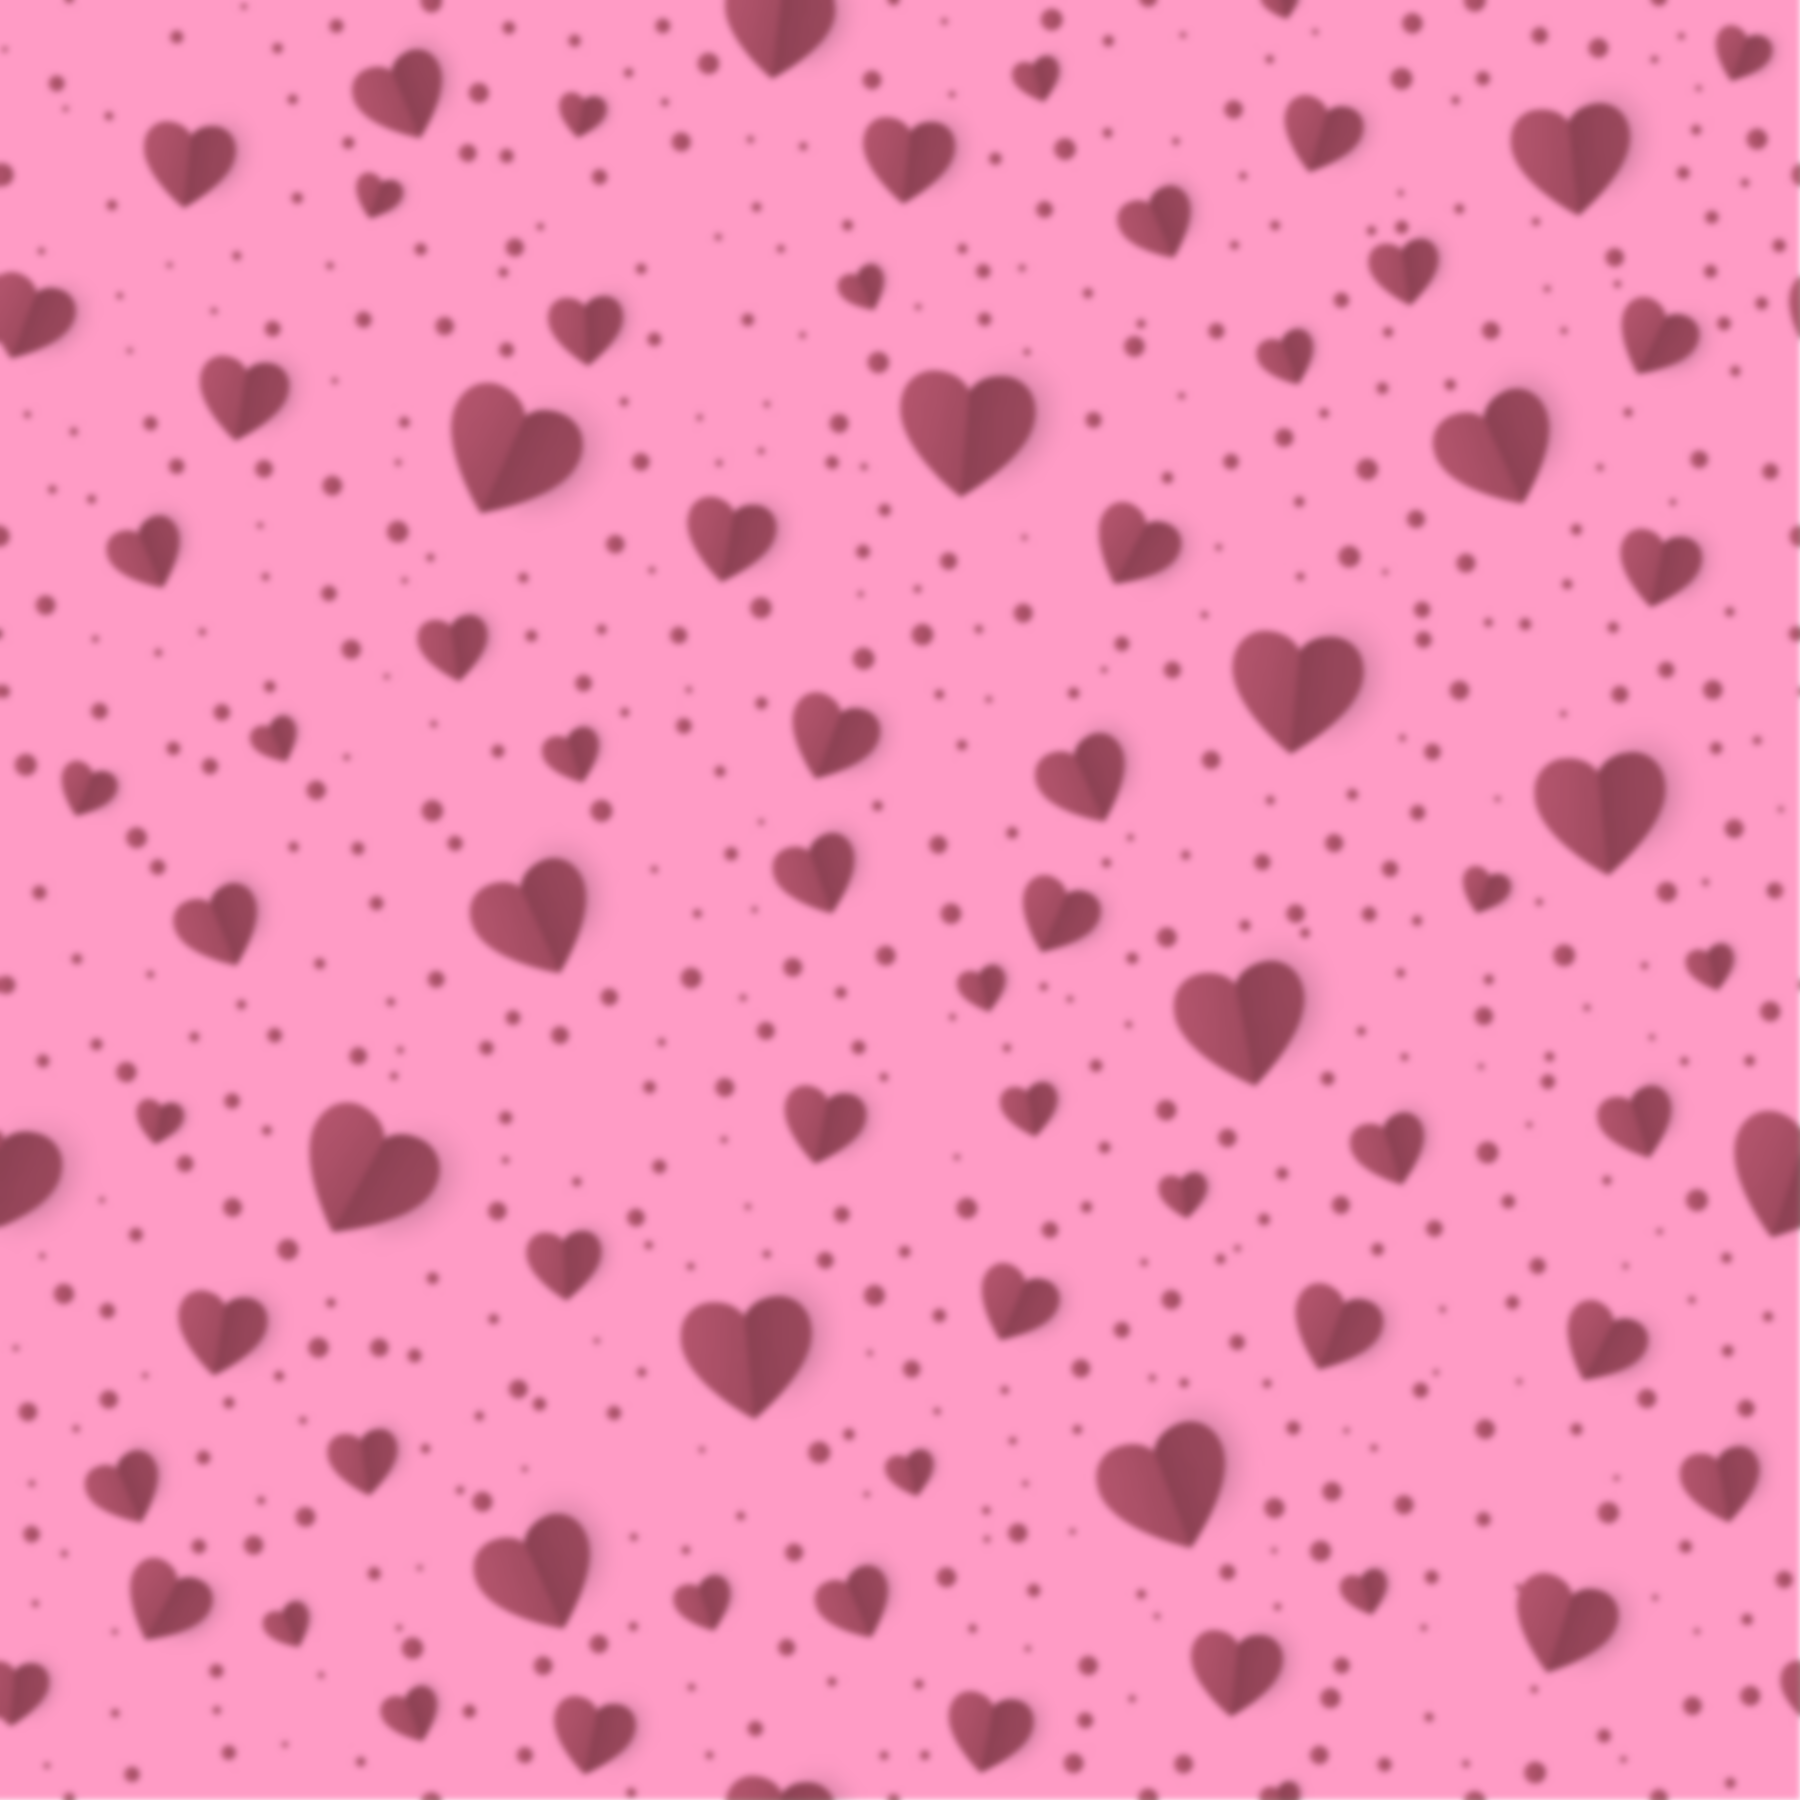
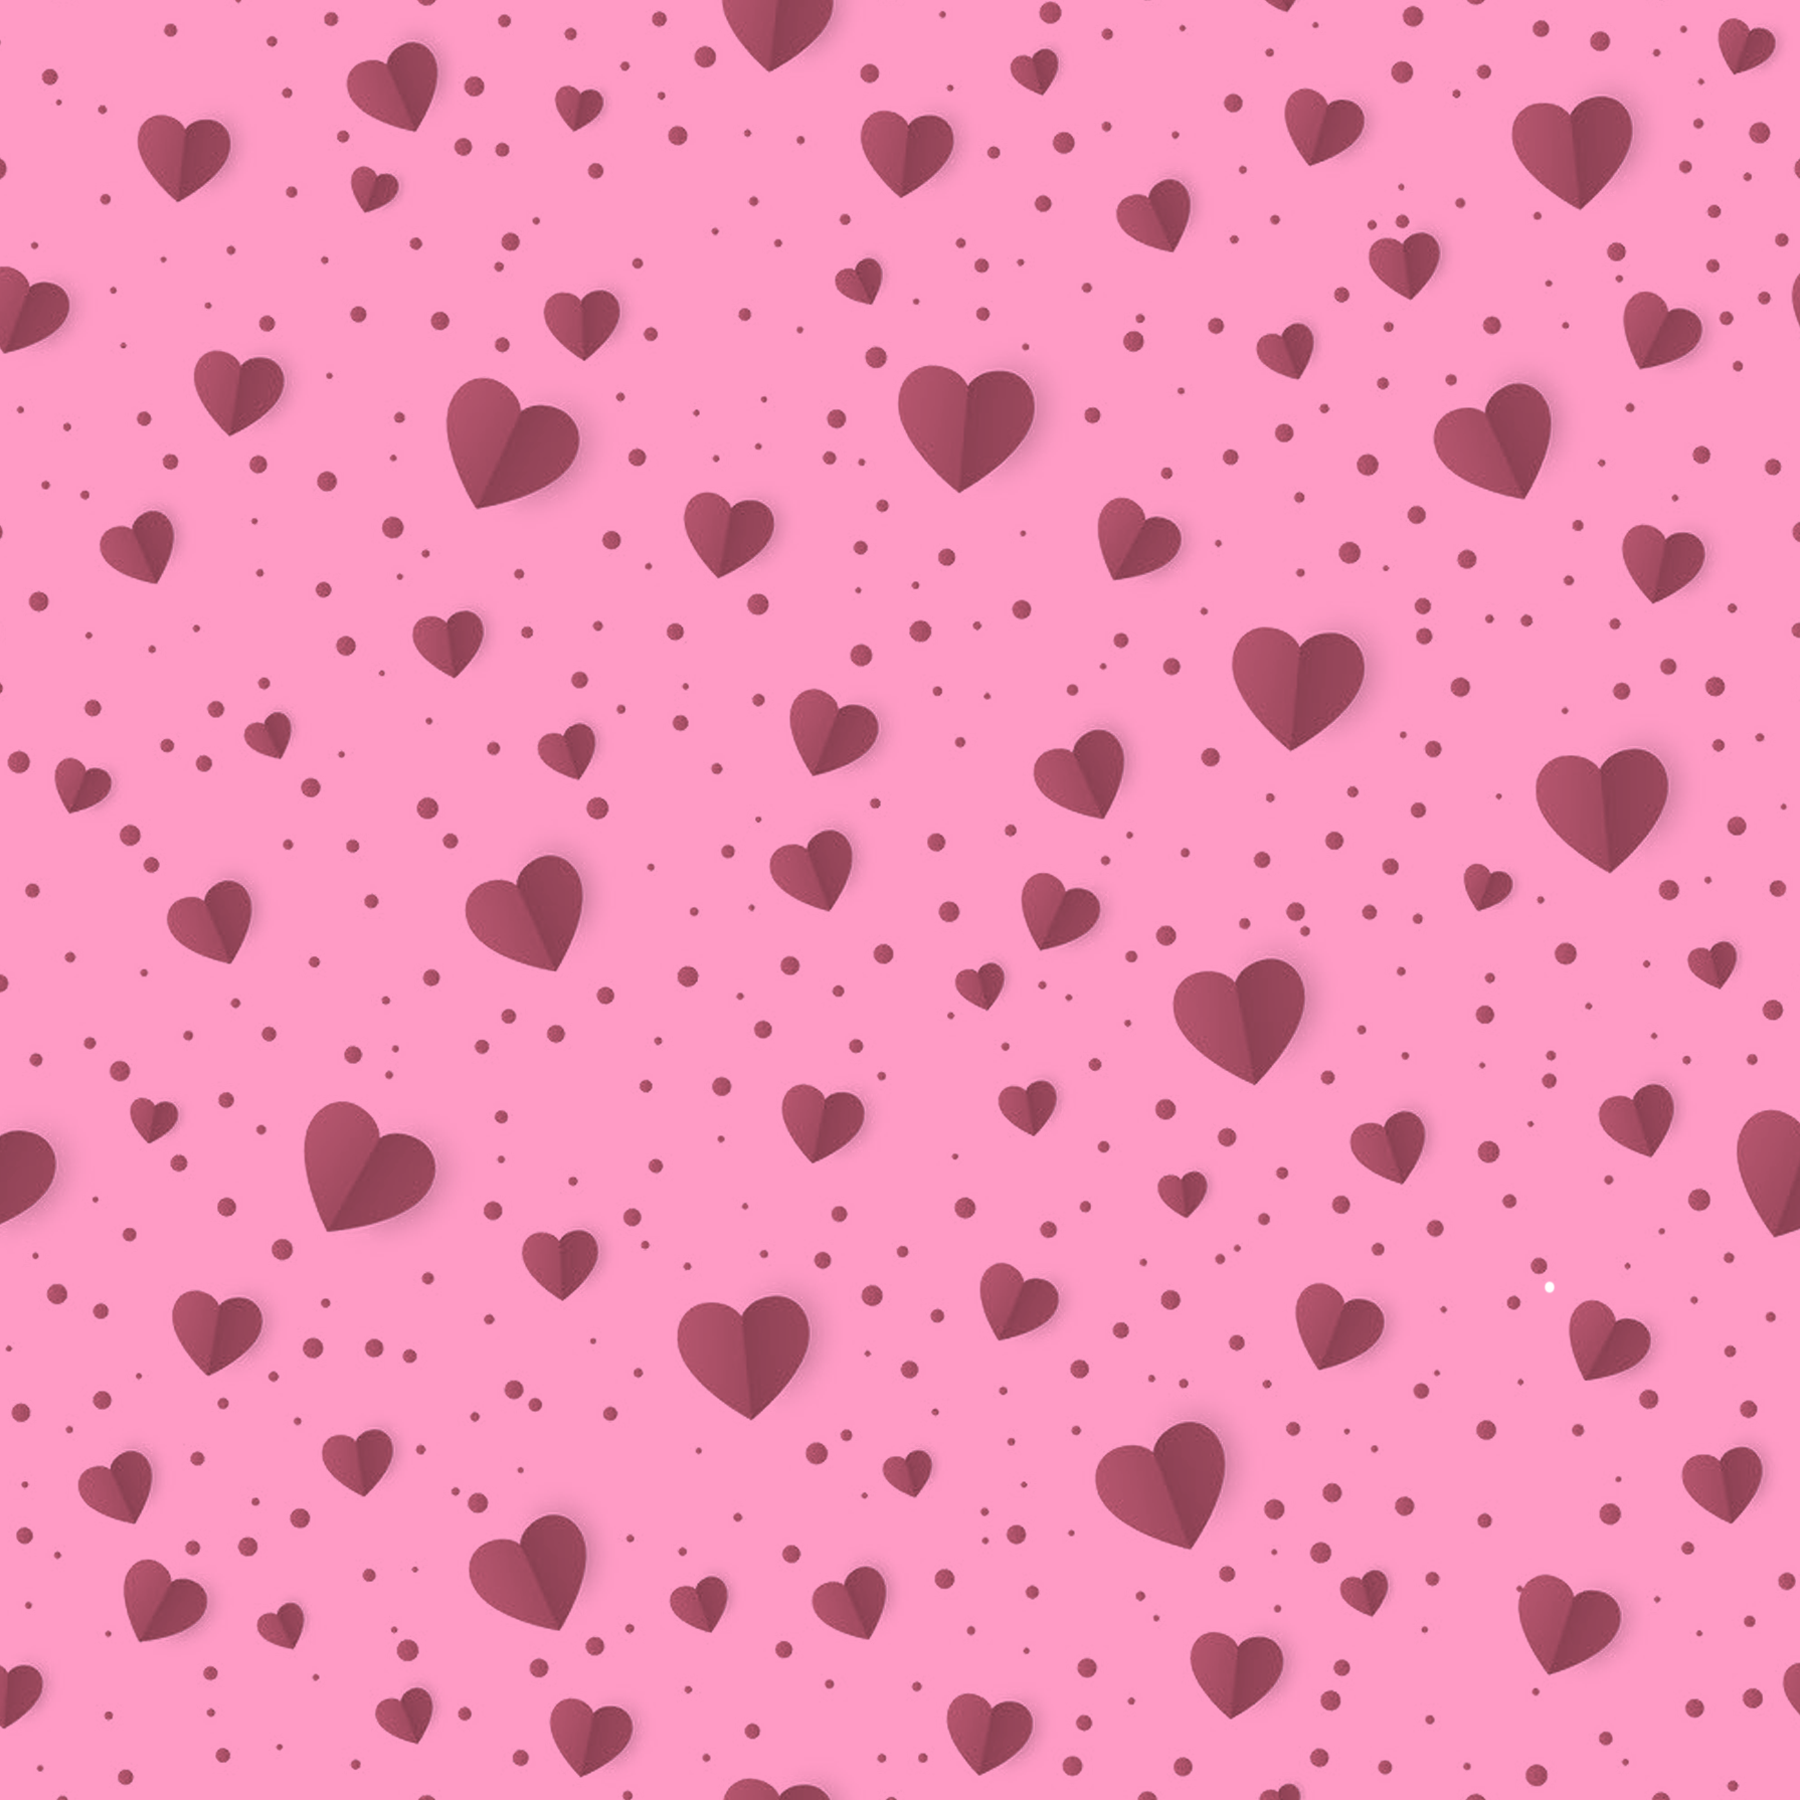
lol

diff --git a/Kaitlins_website/front_page.css b/Kaitlins_website/front_page.css
@@ -1,0 +1,86 @@
+body { 
+    background-image: url("/Kaitlins_website/images/web_background.png");
+    background-repeat: repeat;
+    background-position: center center;
+    background-size: 15%;
+    background-color: pink;
+}
+
+.front_items{
+    display: flex;
+    flex-direction: column;
+    align-items: center;
+    justify-content: center;
+
+}
+.logo {
+    height: 50%;
+    width: 50%;
+
+}
+p {
+    color: white;
+    font-family: 'Coiny', cursive;
+    font-size: .7cm;
+    margin: 0px;
+
+
+}
+.store_button {
+    font-family:fantasy;
+    text-transform: uppercase;
+    font-size: 50px;
+    width: 300px;
+    height: 70px;
+    border-radius: 80px;
+    line-height: 70px;
+    text-align: center;
+    text-decoration: none;
+    border: 3px solid white;
+    color: white; 
+    position: relative;
+    background: transparent;
+    overflow: hidden;
+    transition: .3s;
+    margin-top: 6%;
+    display: block;
+}
+
+.store_button::before {
+    
+    content: ' ';
+    width: 100%;
+    height: 100%;
+    position: absolute;
+    opacity: .5;
+    background: white;
+    top: -100%; 
+    left: 0;
+    z-index: -1;
+    transition: .3s;
+}
+
+.store_button::after {
+    content: '';
+    width: 100%;
+    height: 100%;
+    position: absolute;
+    background-color: white;
+    top: -100%;
+    left: 0;
+    z-index: -1;
+    transition: .3s;
+    transition-delay: .2s;
+}
+
+.store_button:hover {
+    color: pink;
+}
+
+.store_button:hover::before {
+    top: 0;
+}
+
+.store_button:hover::after {
+    top: 0;
+}

diff --git a/Kaitlins_website/index.html b/Kaitlins_website/index.html
@@ -3,14 +3,28 @@
 <html lang="en">
     <head>
         <title>DittoStore</title>
-        <link rel="stylesheet" href="/Kaitlins_website/website.css">
+        <link href="https://fonts.googleapis.com/css2?family=Coiny&display=swap" rel="stylesheet">
+        <link rel="stylesheet" href="/Kaitlins_website/front_page.css">
+        <link rel="preconnect" href="https://fonts.gstatic.com">
+    
 
     </head>
 
 
+
 <body>
-    
+ 
+    <div class="front_items">
+        <img src="/Kaitlins_website/images/mainlogo.gif" alt="main_logo" class="logo">
+
+        <p>Enjoy 10% off store orders until February 10th</p>
+        
+        <a href="/Kaitlins_website/main_page.html" class = "store_button"> Store</a>
+    </div>    
+
 </body>
+
+
 
 
 
